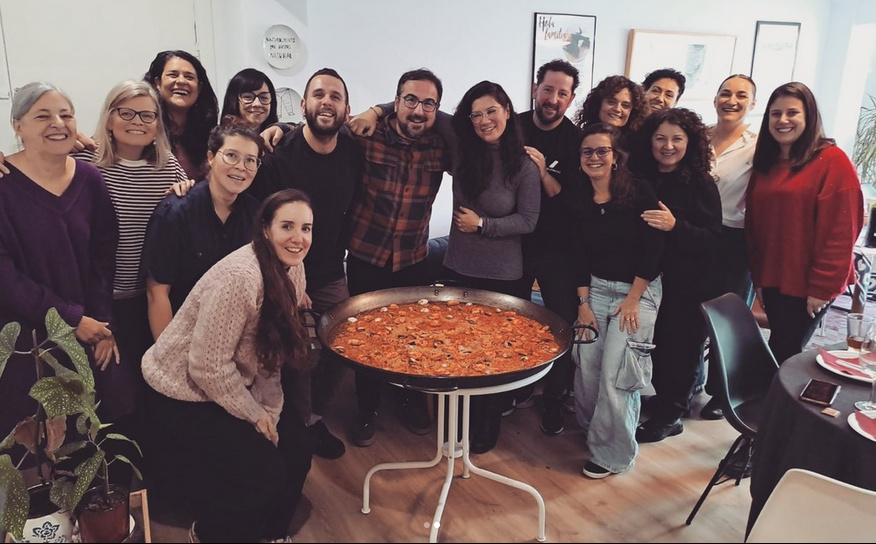
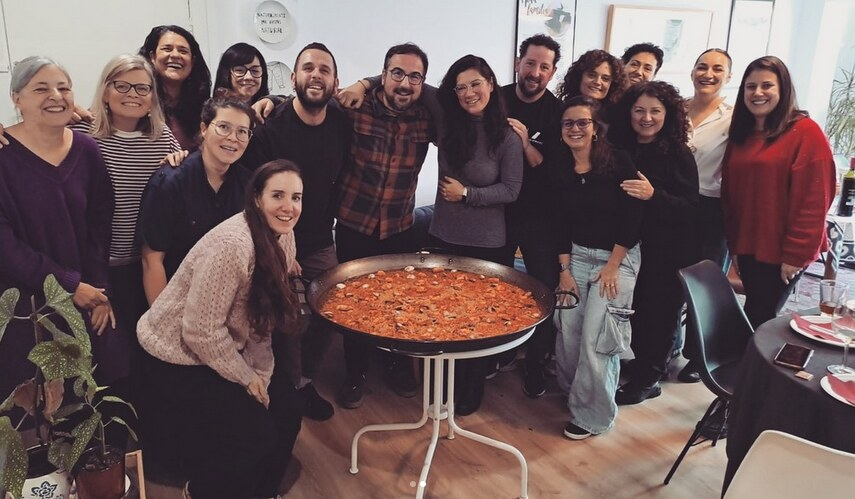
Homepage: replace third post-video pillar with updated paella group photo.

diff --git a/src/components/Espacio.tsx b/src/components/Espacio.tsx
@@ -17,7 +17,7 @@ const pillars = [
     objectPosition: "object-[center_40%]",
   },
   {
-    src: "/photos/home-puente-paella-comunidad.jpg",
+    src: "/photos/home-pilar-paella-comunidad.jpg",
     alt: "Un grupo diverso de personas sonrientes posando juntas alrededor de una gran paella tradicional en un ambiente comunitario y acogedor",
     objectPosition: "object-[center_40%]",
   },
